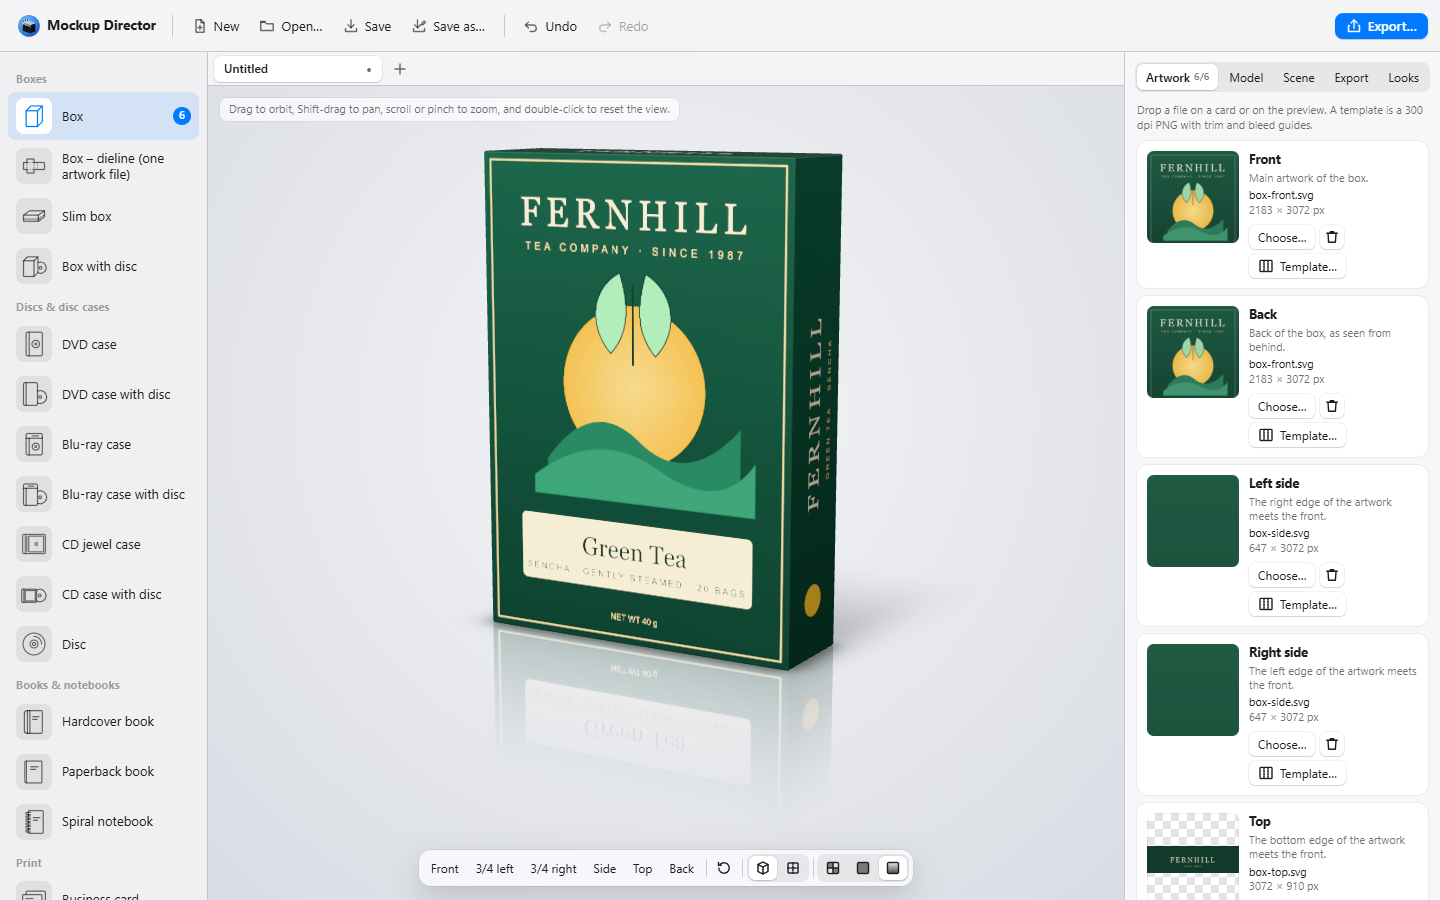
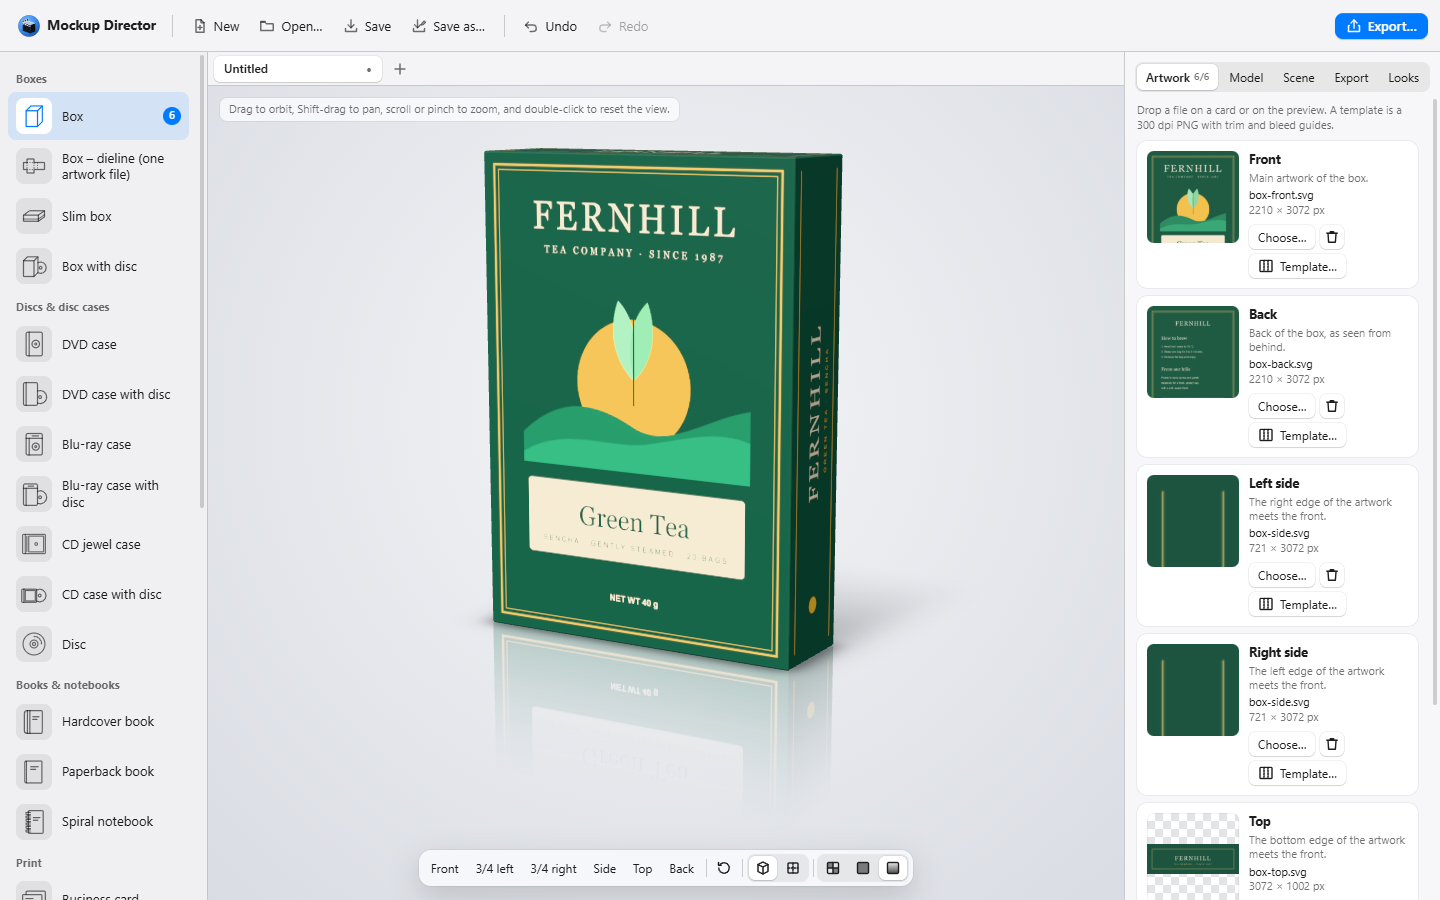
docs: retake the readme screenshots from artwork kept in the repository
The artwork the screenshots show now lives in docs/images/screenshot-artwork
as SVG, sized to each slot's print template: a tea box, a hardcover book's
cover wrap, a laptop's weather app and a business card. npm run screenshots
(tests/e2e/screenshots.spec.ts) takes all four in the e2e build at 1440 × 900:
it drops the artwork on the slots, sets what each shot shows, opens its tab and
saves the page. The new screenshots also show the darker sidebar headings.

diff --git a/tests/e2e/screenshots.spec.ts b/tests/e2e/screenshots.spec.ts
@@ -1,0 +1,135 @@
+/**
+ * Takes the README's screenshots (docs/images/*.png) in the e2e build of the desktop app, at its
+ * window size of 1440 × 900: each puts the artwork from docs/images/screenshot-artwork on a model,
+ * sets what the shot shows, opens its tab of the inspector and saves the page. Not part of the
+ * end-to-end tests: run it with npm run screenshots (docs/development.md).
+ */
+import { readFileSync } from 'node:fs';
+import { join } from 'node:path';
+import { fileURLToPath } from 'node:url';
+import { $, browser } from '@wdio/globals';
+
+const IMAGES = fileURLToPath(new URL('../../docs/images/', import.meta.url));
+const ARTWORK = join(IMAGES, 'screenshot-artwork');
+const TOOLBAR = 'header.toolbar';
+const model = (id: string) => `nav.sidebar-left button.gallery-item[data-model="${id}"]`;
+const card = (slot: string) => `.slot-card[data-slot="${slot}"]`;
+/** How long the 3D view gets to show a change before a screenshot. */
+const SETTLE_MS = 2500;
+
+/** One screenshot: the model, the artwork file of each slot, the settings and the tab it shows. */
+interface Shot {
+  file: string;
+  model: string;
+  artwork: Record<string, string>;
+  selects?: Record<string, string>;
+  tab: 'artwork' | 'model' | 'scene' | 'export';
+}
+
+const SHOTS: Shot[] = [
+  {
+    file: 'artwork.png',
+    model: 'box',
+    artwork: {
+      front: 'box-front.svg',
+      back: 'box-back.svg',
+      left: 'box-side.svg',
+      right: 'box-side.svg',
+      top: 'box-top.svg',
+      bottom: 'box-top.svg',
+    },
+    tab: 'artwork',
+  },
+  { file: 'scene.png', model: 'book-hardcover', artwork: { cover: 'book-cover.svg' }, tab: 'scene' },
+  { file: 'model.png', model: 'device-laptop', artwork: { screen: 'laptop-screen.svg' }, tab: 'model' },
+  {
+    file: 'export.png',
+    model: 'print-business-card',
+    artwork: { front: 'card-front.svg', back: 'card-back.svg' },
+    selects: { Arrangement: 'pair' },
+    tab: 'export',
+  },
+];
+
+const pause = (ms: number) => new Promise((resolve) => setTimeout(resolve, ms));
+
+/** Drops an artwork file on the card of its slot, as a user would, and waits until the slot holds it. */
+async function dropArtwork(slot: string, file: string): Promise<void> {
+  const text = readFileSync(join(ARTWORK, file), 'utf8');
+  await browser.execute(
+    (selector, name, svg) => {
+      const target = document.querySelector(selector);
+      if (!target) throw new Error(`No card matches ${selector}.`);
+      const data = new DataTransfer();
+      data.items.add(new File([svg], name, { type: 'image/svg+xml' }));
+      target.dispatchEvent(new DragEvent('drop', { dataTransfer: data, bubbles: true, cancelable: true }));
+    },
+    card(slot),
+    file,
+    text,
+  );
+  await $(`${card(slot)}.filled`).waitForExist({ timeoutMsg: `the ${slot} slot did not take ${file}` });
+}
+
+/** Sets the select whose label is `label` in the open panel, as a user would. */
+async function choose(label: string, value: string): Promise<void> {
+  await browser.execute(
+    (text, option) => {
+      const field = Array.from(document.querySelectorAll('.ctl-select')).find(
+        (el) => el.querySelector('.ctl-label')?.textContent === text,
+      );
+      const select = field?.querySelector('select');
+      if (!select) throw new Error(`No select is labeled ${text}.`);
+      select.value = option;
+      select.dispatchEvent(new Event('change', { bubbles: true }));
+    },
+    label,
+    value,
+  );
+}
+
+/** Fails on an error toast, and closes the other toasts, so that none is in the screenshot. */
+async function clearToasts(): Promise<void> {
+  const errors = await browser.execute(() =>
+    Array.from(document.querySelectorAll('.toasts .toast-error'), (el) => el.textContent ?? ''),
+  );
+  if (errors.length) throw new Error(`The app showed an error: ${errors.join('; ')}`);
+  await browser.execute(() => {
+    for (const button of document.querySelectorAll<HTMLButtonElement>('.toasts .toast-close')) button.click();
+  });
+}
+
+describe('README screenshots', () => {
+  before(async () => {
+    await $(TOOLBAR).waitForExist({ timeoutMsg: 'the toolbar did not appear' });
+  });
+
+  for (const shot of SHOTS) {
+    it(`takes ${shot.file}`, async () => {
+      await $(model(shot.model)).click();
+      await browser.waitUntil(async () => (await $(model(shot.model)).getAttribute('aria-pressed')) === 'true', {
+        timeoutMsg: `the model ${shot.model} was not selected`,
+      });
+      await $('#tab-artwork').click();
+      for (const [slot, file] of Object.entries(shot.artwork)) await dropArtwork(slot, file);
+      if (shot.selects) {
+        await $('#tab-model').click();
+        for (const [label, value] of Object.entries(shot.selects)) await choose(label, value);
+      }
+      await $(`#tab-${shot.tab}`).click();
+      await pause(SETTLE_MS);
+      await clearToasts();
+      // No focus ring or hover in the picture.
+      await browser.execute(() => (document.activeElement as HTMLElement | null)?.blur());
+      await pause(500);
+      await browser.saveScreenshot(join(IMAGES, shot.file));
+
+      // The next model starts without this one's artwork, so the gallery shows no count on it.
+      await $('#tab-artwork').click();
+      for (const slot of Object.keys(shot.artwork)) {
+        await $(`${card(slot)} button[aria-label="Remove artwork"]`).click();
+        await $(`${card(slot)}:not(.filled)`).waitForExist();
+      }
+    });
+  }
+});

diff --git a/tests/e2e/screenshots.config.ts b/tests/e2e/screenshots.config.ts
@@ -1,0 +1,7 @@
+/**
+ * WebdriverIO config of npm run screenshots: the end-to-end tests' config (wdio.config.ts), running
+ * screenshots.spec.ts instead of the tests.
+ */
+import { config as tests } from './wdio.config.ts';
+
+export const config: WebdriverIO.Config = { ...tests, specs: ['./screenshots.spec.ts'] };

diff --git a/docs/architecture.md b/docs/architecture.md
@@ -174,7 +174,9 @@ tests/          unit tests (Vitest, config in vitest.config.ts); their folders m
                 identifier and data folder in tauriConfig.test.ts;
                 e2e/: the end-to-end smoke test of the desktop app (WebdriverIO; not run by npm
                 test): the test in smoke.spec.ts, its config in wdio.config.ts, the folders it uses
-                in folders.ts, and the entry of the test build of the web part in app/entry.ts
+                in folders.ts, and the entry of the test build of the web part in app/entry.ts; also
+                the README's screenshots, taken in the same app (screenshots.spec.ts, its config
+                screenshots.config.ts, npm run screenshots)
 src-tauri/      the Tauri v2 shell (Rust): main.rs starts lib.rs, which sets up the window, the dialogs,
                 a single app process and the commands; the commands' error (error.rs), saving files:
                 the open saves and their commands (saves.rs) and writing a file atomically (files.rs),
@@ -252,8 +254,9 @@ start.bat, start.sh         run the desktop app from source (npm run app:dev), s
 README.md                   for users
 CONTRIBUTING.md, SECURITY.md how to contribute, and how to report a security problem
 docs/                       this documentation
-docs/images/                the README's screenshots (the app at 1440 × 900, with made-up artwork
-                            only) and its icon, icon.png (written by tools/draw-icon.mjs)
+docs/images/                the README's screenshots (the app at 1440 × 900, written by npm run
+                            screenshots) and its icon, icon.png (written by tools/draw-icon.mjs)
+docs/images/screenshot-artwork/  the made-up artwork the screenshots show, as SVG
 ```
 
 How the folders are organized:

diff --git a/docs/development.md b/docs/development.md
@@ -247,6 +247,20 @@ GitHub Actions builds all three systems for every pull request (`build-windows.y
 
 How `main` is protected on GitHub is described in [releasing.md](releasing.md#repository-settings).
 
+## README screenshots
+
+The README's four screenshots, `docs/images/artwork.png`, `scene.png`, `model.png` and `export.png`, are taken in the e2e build of the app (see [End-to-end tests](#end-to-end-tests)) at its window size of 1440 × 900. `tests/e2e/screenshots.spec.ts` drops the made-up artwork in `docs/images/screenshot-artwork/` on a model's slots, sets what the shot shows, opens its tab and saves the page over the PNG. Take them on Windows, so that the fonts match those of the screenshots in the README:
+
+```bash
+npm run e2e:build
+```
+
+```bash
+npm run screenshots
+```
+
+Take them again when the interface they show changes, and keep the README's descriptions of them (the `alt` texts) in step. To change what a shot shows, edit its entry in `SHOTS`; to change the artwork, edit the SVG files, whose sizes follow each slot's print template with the model's default settings (the size is in the comment at the top of each file).
+
 ## The app icon
 
 The icon is drawn by `tools/draw-icon.mjs` (a product box whose front is a film clapperboard). This writes the icons that `bundle.icon` in `src-tauri/tauri.conf.json` lists, in `src-tauri/icons/`: `32x32.png`, `128x128.png` and `128x128@2x.png` (round) for Linux, the first of them also the window icon, a round `icon.ico` for Windows and its installer, and a rounded-square `icon.icns` for macOS. It also writes the small toolbar logo `src/ui/app-logo.svg` and `docs/images/icon.png`, the icon at the top of the README:
